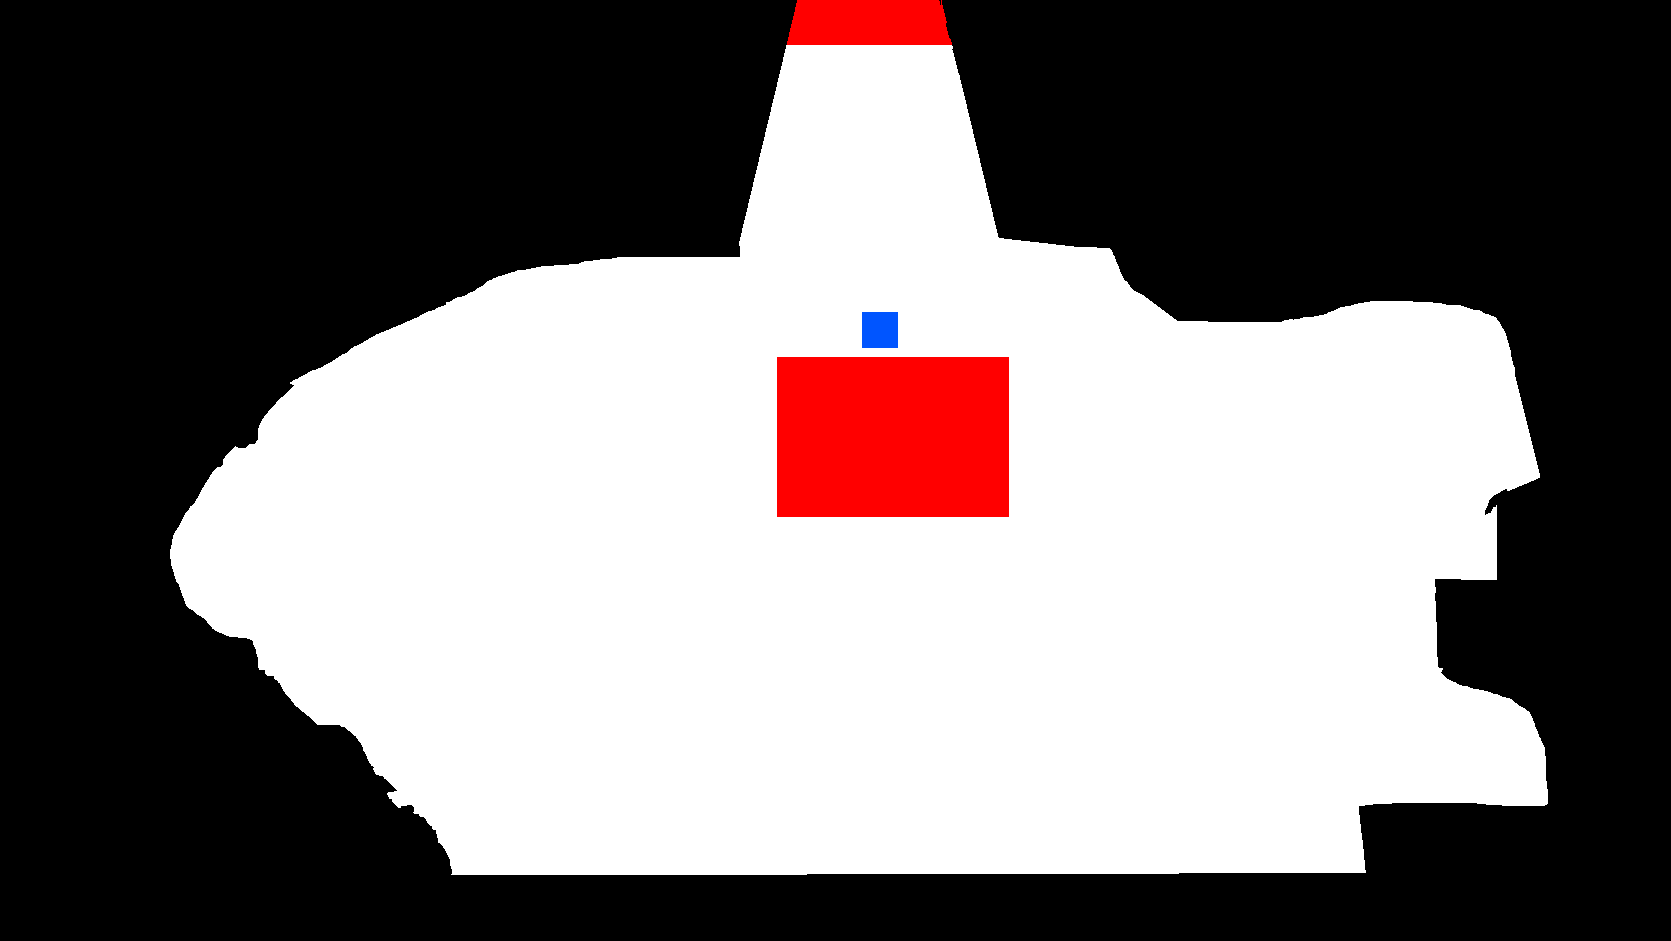
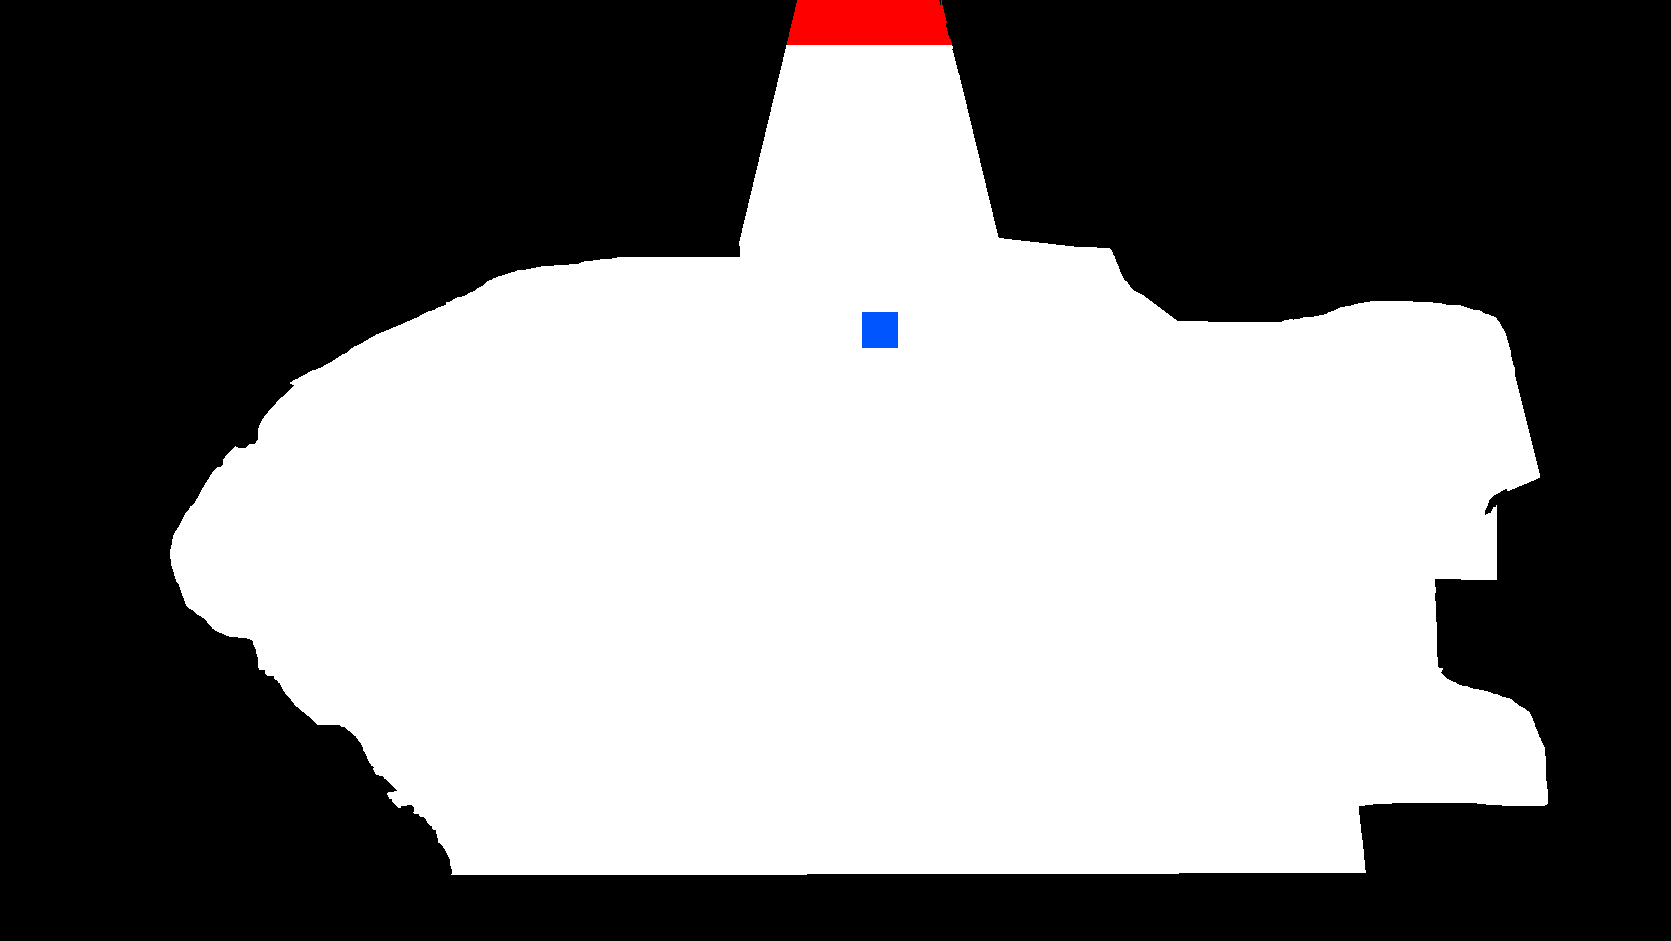
Final: al cerrar la última misión te dan la llave oxidada; abrís la puerta del costado del Nogal, te acercás al rift y empieza el final. El rift lo repite cuando quieras
Claude-Session: https://claude.ai/code/session_01VGCmBo3CsU2Xq1dNwQVK9W

Changed region(s): [[0.4668, 0.3698, 0.6224, 0.5547]]

diff --git a/www/cenizas.js b/www/cenizas.js
@@ -13,7 +13,7 @@
   const NPC = window.CZ_NPC || null;
   const ICON_PNG = { katana: 'katana', bate: 'bate', cuchillo: 'cuchillo', barra: 'barra', pistola: 'pistola', escopeta: 'escopeta', mascara: 'mascara', kitsune: 'capa', chaleco: 'chaleco', chaleco_t: 'chaleco', armadura: 'chaleco', campera: 'chaleco', palo: 'palo',
     b_contencion: 'brazalete', b_resonancia: 'brazalete', brz_ork: 'brazalete', brz_reb: 'brazalete', vendas: 'vendas', botiquin: 'vendas', suero: 'maletin', kit: 'maletin', cigarrillo: 'cigarrillo', manzana: 'manzana', credencial: 'credencial', pista_ork: 'credencial', pista_reb: 'pagina', pista: 'pagina', pagina: 'pagina', lanza: 'lanza', baston: 'lanza' };
-  Object.assign(ICON_PNG, { ganzuas: 'ganzuas', barra: 'barra2', cuchillo: 'cuchillo2', mascara: 'mascara_gas', filtro: 'respirador' });
+  Object.assign(ICON_PNG, { llave_rift: 'llaves', ganzuas: 'ganzuas', barra: 'barra2', cuchillo: 'cuchillo2', mascara: 'mascara_gas', filtro: 'respirador' });
   Object.assign(ICON_PNG, { lanzallamas: 'escopeta', metralleta: 'pistola', trampa: 'dinamita', antiveneno: 'canister', venda_q: 'vendas', fragmento: 'energia', brz_jefe: 'brazalete', tarjeta: 'tarjeta2', expediente: 'expediente', fusible: 'fusible', radio: 'radio', cartucho: 'cartucho', canister: 'canister', contenedor: 'contenedor', energia: 'energia' });
   const ICONS = {}; Object.entries(ICON_PNG).forEach(([k, f]) => { const i = new Image(); i.src = '/a/it/' + f + '.png'; ICONS[k] = i; });
   const iconOf = k => { const i = ICONS[k]; return i && i.complete && i.naturalWidth ? i : window.CZ_PIX.icon(k); };
@@ -240,6 +240,7 @@
     b_resonancia: { n: 'Brazalete de resonancia', t: 'Brazalete · raro', d: 'A favor: ves a las Sombras aunque se escondan. En contra: los Oscuros te detectan desde más lejos.', eq: 'brazo' },
     credencial: { n: 'Credencial de contención', t: 'Llave · poco común', d: 'La mostrás en cualquier tienda y por 10 minutos todo te sale 30% menos. Se gasta al usarla.', use: 'descuento' },
     receptor: { n: 'Receptor de señales', t: 'Objeto · poco común', d: 'Capta transmisiones: te marca con una flecha dónde está el maletín de curación (3 minutos) y te avisa si hay horda, jefe o Yuki. No se gasta (1 vez por minuto).', use: 'radar' },
+    llave_rift: { n: 'Llave oxidada', t: 'Historia · abre la puerta del costado del Nogal', d: 'Tiene grabado NOGAL. Abre la puerta oxidada del costado del campamento.' },
     ganzuas: { n: 'Juego de ganzúas', t: 'Herramienta · poco común', d: 'Acercate a un CASILLERO de los mapas y forzalo: sacás vendas y algo más. También abre la cápsula del búnker. Se gasta.', use: 'forzar' },
     filtro: { n: 'Filtro portátil', t: 'Consumible · poco común', d: 'Hacés potable el agua: +40 de vida y corrés más rápido por 8 segundos.', use: 'vida' },
     suero: { n: 'Maletín de curación total', t: 'Único · rota cada 3 minutos', d: 'Te deja la vida completa. Hay uno solo en todo el mundo y cambia de mapa cada 3 minutos si nadie lo agarra.', use: 'heal', v: 9999 },
@@ -582,7 +583,7 @@
     if (STORY && window.CZ_STORY && CZ_STORY.redir) { const t = CZ_STORY.redir(e.to); if (t && MAPS[t]) { const at = arrivalOf(t, 'salida'); exitLock = true; return warpTo(t, at[0], at[1]); } }
     const dest = MAPS[e.to];
     /* puerta oxidada del Nogal: por ahora solo pasa Pablo (o el admin, para probar) */
-    if (e.lock === 'pablo' && !((look && look.npc && /^pablo/.test(look.npc)) || (me && me.role === 'admin'))) { exitLock = true; buzz(40); toast('La cerradura está oxidada. Parece que hace mucho que no se abre.'); const cx = (e.r[0] + e.r[2]) / 2 * WS, cy = (e.r[1] + e.r[3]) / 2 * WS, dx = P.x - cx, dy = P.y - cy, l = Math.hypot(dx, dy) || 1; for (let i = 0; i < 12; i++) { const nx = P.x + dx / l * 12, ny = P.y + dy / l * 12; if (walkable(nx, ny)) { P.x = nx; P.y = ny; } } return; }
+    if (e.lock === 'pablo' && !((look && look.npc && /^pablo/.test(look.npc)) || (me && me.role === 'admin') || hasItem('llave_rift') || (INV.story && INV.story.fac === me.faction && (INV.story.done || []).some(x => x === 'r16' || x === 'v11')))) { exitLock = true; buzz(40); toast('La cerradura está oxidada. Parece que hace mucho que no se abre.'); const cx = (e.r[0] + e.r[2]) / 2 * WS, cy = (e.r[1] + e.r[3]) / 2 * WS, dx = P.x - cx, dy = P.y - cy, l = Math.hypot(dx, dy) || 1; for (let i = 0; i < 12; i++) { const nx = P.x + dx / l * 12, ny = P.y + dy / l * 12; if (walkable(nx, ny)) { P.x = nx; P.y = ny; } } return; }
     if (!dest) { exitLock = true; buzz(40); toast('Camino peligroso. No se puede avanzar.'); const cx = (e.r[0] + e.r[2]) / 2 * WS, cy = (e.r[1] + e.r[3]) / 2 * WS, dx = P.x - cx, dy = P.y - cy, l = Math.hypot(dx, dy) || 1; for (let i = 0; i < 12; i++) { const nx = P.x + dx / l * 12, ny = P.y + dy / l * 12; if (walkable(nx, ny)) { P.x = nx; P.y = ny; } } return; }
     if (STORY && window.CZ_STORY && !CZ_STORY.canWarp(e)) { exitLock = true; return; }
     if (EXP && dest.base && dest.base !== me.faction) { exitLock = true; buzz(40); return toast(dest.base === 'ork' ? 'BASE ORK · no podés pasar.' : 'BASE REBELDE · no podés pasar.'); }

diff --git a/www/cenizas-story.js b/www/cenizas-story.js
@@ -87,7 +87,8 @@ body.cine #st-dlg{display:block}
     $('#st-s').textContent = '▸ ' + step.txt + extra; }
   function setMission(i, fresh) { S.m = i; mis = list[i]; S.s = fresh ? 0 : S.s; S.c = fresh ? 0 : S.c; if (!mis) { step = null; objective(); return; } step = mis.steps[S.s]; save();
     if (fresh) card('MISIÓN ' + String(i + 1).padStart(2, '0'), mis.t, '', () => say(mis.intro, () => { prep(); objective(); })); else { prep(); objective(); } }
-  function advance() { S.s++; S.c = 0; S.loose = false; spawned = {}; if (S.s >= mis.steps.length) return finish(); step = mis.steps[S.s]; save(); prep(); objective(); A.toast('▸ ' + step.txt); }
+  const RIFT_C = () => [892, 436];
+  function advance() { if (step && step.give && !step.pz) { Object.entries(step.give).forEach(([k, n]) => { if (!A.hasItem(k)) A.addItem(k, n); }); A.toast('Recibiste: ' + Object.keys(step.give).map(k => A.ITEMS[k] ? A.ITEMS[k].n : k).join(', ')); A.quickBtns(); } S.s++; S.c = 0; S.loose = false; spawned = {}; if (S.s >= mis.steps.length) return finish(); step = mis.steps[S.s]; save(); prep(); objective(); A.toast('▸ ' + step.txt); }
   function finish() { const r = mis.reward || {}; if (r.xp) A.giveXp(r.xp); if (r.coins) A.giveCoins(r.coins); Object.entries(r.items || {}).forEach(([k, n]) => A.addItem(k, n)); A.quickBtns(); A.INV.racha = 0;
     const done = mis; S.done = (S.done || []).concat(done.id); step = null; mis = null; objective(); save();
     card('MISIÓN CUMPLIDA', done.t, '+' + (r.xp || 0) + ' XP · +' + (r.coins || 0) + ' $' + Object.entries(r.items || {}).map(([k, n]) => ' · ' + (A.ITEMS[k] ? A.ITEMS[k].n : k) + ' ×' + n).join(''), () => {
@@ -110,6 +111,7 @@ body.cine #st-dlg{display:block}
   function target() { if (!step) return null; let tm = step.go || step.map; if (!tm) return null; if (REDIR[tm] && A.mapKey === REDIR[tm]) { const e = (A.MAPS[A.mapKey].exits || [])[0]; return e ? { x: (e.r[0] + e.r[2]) / 2, y: (e.r[1] + e.r[3]) / 2, lab: 'SALÍ Y VOLVÉ A ENTRAR' } : null; } if (REDIR[tm] && A.mapKey !== tm) tm = REDIR[tm];
     if (A.mapKey !== tm) { const e = route(A.mapKey, tm); return e ? { x: (e.r[0] + e.r[2]) / 2, y: (e.r[1] + e.r[3]) / 2, lab: e.label || 'SALIDA' } : null; }
     if (step.talk || step.use) { const k = S.m + '-' + S.s + '-' + A.mapKey; const n = (step.talk && worldNpc()) || null; if (n) return { x: n.x, y: n.y, lab: nameOf(step.talk) }; const p = place[k]; return p ? { x: p[0], y: p[1], lab: step.use ? 'ACTIVAR' : 'HABLAR' } : null; }
+    if (step.rift) { const [rx, ry] = RIFT_C(); return { x: rx, y: ry, lab: 'RIFT' }; }
     if (step.pz) { const ob = pzObjs(A.mapKey), p = S.pz || {}; let o = null; if (step.pz === 'seq') o = ob.find(x => x.i === 3 && !x.done) || ob.find(x => x.i < 3 && !x.done); else if (step.pz === 'code') o = ob.find(x => x.i < 3 && !x.done) || ob.find(x => x.i === 3); else o = ob.find(x => !x.done); return o ? { x: o.x, y: o.y, lab: o.nm } : null; }
     const P = A.P, WS_ = A.WS, near = (arr) => { let b = null, bd = 1e18; arr.forEach(o => { const d = (o.x - P.x) ** 2 + (o.y - P.y) ** 2; if (d < bd) { bd = d; b = o; } }); return b; };
     if (step.kill) { const ks = kindsOf(step.kill); const m = near(A.mobs.filter(o => o.hp > 0 && (o.story || ks.includes(o.kind)))); if (m) return { x: m.x / WS_, y: m.y / WS_, lab: 'ENEMIGO' }; }
@@ -166,7 +168,11 @@ body.cine #st-dlg{display:block}
       if (S.m >= list.length) { mis = null; step = null; objective(); return; }
       const fresh = !A.INV.story || A.INV.story.fac !== A.me.faction; setTimeout(() => setMission(S.m, fresh && S.s === 0), 2600); },
     enter(k) { if (!A || !step) return; spawned = {}; if (step.go && step.go === k) { setTimeout(advance, 600); return; } setTimeout(() => { prep(); objective(); }, 300); },
-    tick(dt) { if (!step || !A) return; const P = A.P;
+    tick(dt) { if (!A) return; const P = A.P;
+      if (A.mapKey === 'sotano_rift') { const [rx, ry] = RIFT_C(), d = Math.hypot(P.x / A.WS - rx, (P.y / A.WS - ry) * 1.3);
+        if (step && step.rift) { if (d < 150) { advance(); } return; }
+        if (!step && S && S.m >= list.length && window.CZ_FINAL) { if (d < 140 && !H._rift) { H._rift = true; A.setPaused(true); CZ_FINAL.play(A.me.faction, () => { A.setPaused(false); A.toast('El rift sigue ahí. Cuando quieras, volvé a entrar.'); }); } else if (d > 320) H._rift = false; } }
+      if (!step) return;
       if (step.go && step.go === A.mapKey) { advance(); return; }
       if (step.get && (A.INV.items[step.get] || 0) >= step.n) { advance(); return; }
       if (step.survive && step.map === A.mapKey && !P.dead) { S.c += dt; if (((S.c * 10) | 0) % 10 === 0) objective(); H._w = (H._w || 0) - dt; const alive = A.mobs.filter(o => o.story).length;

diff --git a/www/cenizas-maps.js b/www/cenizas-maps.js
@@ -50,5 +50,5 @@ window.CZ_MAPS = {
   bar_rojo: {"name": "BAR DE LUZ ROJA", "img": "/a/m/bar_rojo.jpg", "mask": "/a/m/bar_rojo-mask.png", "w": 1672, "h": 941, "dark": 0.48, "lv": [18, 26], "spawn": [850, 560], "exits": [{"side": "d", "id": "salida", "r": [804, 822, 927, 940], "to": "plazaMayo", "toExit": "bar", "label": "PLAZA DE MAYO"}, {"id": "p1", "r": [1449, 837, 1566, 940], "to": null, "toExit": null, "label": "CAMINO PELIGROSO"}], "occ": [[882, 358, 107, 46, 403, 0], [998, 338, 135, 69, 406, 48], [729, 233, 54, 176, 408, 119], [1150, 379, 16, 37, 415, 297], [1157, 503, 15, 41, 543, 336], [1280, 471, 178, 90, 560, 379], [910, 694, 267, 143, 836, 471], [1529, 743, 57, 99, 841, 616], [1400, 727, 64, 118, 844, 717]], "occTop": true},
   barrio_chino: {"name": "BARRIO CHINO · BELGRANO", "img": "/a/m/barrio_chino.jpg", "mask": "/a/m/barrio_chino-mask.png", "w": 1672, "h": 941, "dark": 0.4, "lv": [8, 14], "spawn": [930, 620], "exits": [{"id": "lib", "r": [522, 896, 1293, 940], "to": "libertador", "toExit": "chino", "label": "CRUCE LIBERTADOR · BASE ORK"}, {"id": "p1", "r": [780, 0, 1120, 44], "to": null, "toExit": null, "label": "CAMINO PELIGROSO"}, {"id": "p2", "r": [0, 405, 44, 726], "to": null, "toExit": null, "label": "CAMINO PELIGROSO"}, {"id": "p3", "r": [1627, 537, 1671, 867], "to": null, "toExit": null, "label": "CAMINO PELIGROSO"}], "npcs": [{"k": "rocio", "nm": "ROCÍO", "line": "Vinimos a buscar víveres para mamá.", "x": 700, "y": 620, "act": null, "fac": null}, {"k": "natsume", "nm": "NATSUME", "line": "Mamá nos espera en Plaza de Mayo.", "x": 820, "y": 640, "act": null, "fac": null}], "occ": [[745, 0, 392, 339, 338, 0], [700, 500, 19, 66, 565, 341], [89, 505, 22, 64, 568, 409], [213, 515, 21, 63, 577, 475], [425, 527, 22, 67, 593, 540], [638, 542, 23, 66, 607, 609], [1204, 543, 23, 68, 610, 677], [699, 757, 26, 73, 829, 747], [1188, 769, 24, 78, 846, 822], [1305, 649, 367, 204, 852, 902], [0, 601, 662, 340, 940, 1108]], "occTop": true},
   calle_extra: {"name": "CALLE DEL MONUMENTO", "img": "/a/m/calle_extra.jpg", "mask": "/a/m/calle_extra-mask.png", "w": 1672, "h": 941, "dark": 0.38, "lv": [6, 12], "spawn": [760, 560], "exits": [{"id": "mcd", "r": [1627, 81, 1671, 343], "to": "mcd", "toExit": "p1", "label": "ESQUINA DEL McDONALD'S"}, {"id": "p1", "r": [226, 0, 326, 201], "to": null, "toExit": null, "label": "CAMINO PELIGROSO"}, {"id": "p2", "r": [1627, 360, 1671, 583], "to": null, "toExit": null, "label": "CAMINO PELIGROSO"}, {"id": "p3", "r": [1627, 767, 1671, 912], "to": null, "toExit": null, "label": "CAMINO PELIGROSO"}, {"id": "p4", "r": [484, 896, 1004, 940], "to": null, "toExit": null, "label": "CAMINO PELIGROSO"}], "npcs": [], "occ": [[0, 0, 583, 250, 249, 0], [959, 244, 406, 205, 448, 252], [581, 0, 164, 468, 467, 459], [938, 475, 22, 63, 537, 929], [1138, 72, 534, 525, 596, 994], [901, 568, 17, 45, 612, 1521], [418, 489, 39, 258, 746, 1568], [470, 723, 85, 40, 762, 1828], [883, 718, 20, 64, 781, 1870], [817, 858, 10, 12, 869, 1936], [95, 743, 395, 166, 908, 1950], [764, 718, 908, 223, 940, 2118]], "occTop": true},
-  sotano_rift: {"name": "SÓTANO DEL NOGAL · EL RIFT", "img": "/a/m/sotano_rift.jpg", "mask": "/a/m/sotano_rift-mask.png", "w": 1671, "h": 941, "dark": 0.5, "lv": [1, 1], "spawn": [880, 330], "exits": [{"id": "nogal", "r": [787, 0, 951, 44], "to": "nogal", "toExit": "sotano", "label": "EL NOGAL"}, {"id": "p1", "r": [777, 357, 1008, 516], "to": null, "toExit": null, "label": "CAMINO PELIGROSO"}], "npcs": [], "safeAll": true},
+  sotano_rift: {"name": "SÓTANO DEL NOGAL · EL RIFT", "img": "/a/m/sotano_rift.jpg", "mask": "/a/m/sotano_rift-mask.png", "w": 1671, "h": 941, "dark": 0.5, "lv": [1, 1], "spawn": [880, 330], "exits": [{"id": "nogal", "r": [787, 0, 951, 44], "to": "nogal", "toExit": "sotano", "label": "EL NOGAL"}], "npcs": [], "safeAll": true},
 };

diff --git a/www/cenizas-story-data.js b/www/cenizas-story-data.js
@@ -130,7 +130,9 @@ window.CZ_STORY_DATA = {
     { id: 'r16', t: 'LO QUE VUELVE CON NOSOTROS', intro: [['RADIO', '…Pablo y Pol cruzaron. Acá seguimos nosotros…']],
       steps: [
         { talk: 'jota', map: 'bunker', txt: 'Volvé con Jota', lines: [['jota', 'Ellos volvieron a su tiempo. Nosotros nos quedamos con lo que queda.']] },
-        { use: 'mesa', ob: 'mesa', nm: 'MESA DE OPERACIONES', map: 'bunker', at: [200, 80], txt: 'Entregá las pruebas', lines: [['VOS', 'Expedientes, cartuchos, nombres. Todo lo que juntamos.'], ['jota', 'VIREX sigue. Pero ahora sabemos dónde mirar.']] }],
+        { use: 'mesa', ob: 'mesa', nm: 'MESA DE OPERACIONES', map: 'bunker', at: [200, 80], txt: 'Entregá las pruebas', lines: [['VOS', 'Expedientes, cartuchos, nombres. Todo lo que juntamos.'], ['jota', 'VIREX sigue. Pero ahora sabemos dónde mirar.']] },
+    { talk: 'jota', map: 'bunker', at: [-120, 40], txt: 'Hablá con Jota antes de irte', give: { llave_rift: 1 }, lines: [['jota', 'Esto estaba entre las cosas de Pablo. Una llave oxidada... tiene grabado NOGAL.'], ['VOS', 'La puerta del costado. La que nunca se abre.'], ['jota', 'Andá. Lo que haya ahí abajo es tuyo.']] },
+    { rift: true, map: 'sotano_rift', txt: 'Volvé al Nogal: abrí la puerta oxidada del costado con la llave y acercate al rift' }],
       reward: { xp: 51600, coins: 250, items: { kit: 3 } }, fin: 'FIN DE LA CAMPAÑA REBELDE · La ruta queda abierta para quienes todavía necesitan escapar.' }
   ],
   ork: [
@@ -212,7 +214,9 @@ window.CZ_STORY_DATA = {
         { use: 'c1', ob: 'consola', nm: 'CIERRE', map: 'arena_final', at: [-450, -200], txt: 'Activá el primer cierre' },
         { use: 'c2', ob: 'consola', nm: 'CIERRE', map: 'arena_final', at: [450, -200], txt: 'Activá el segundo cierre' },
         { survive: 50, map: 'arena_final', kinds: 'HUM', txt: 'Mantené el campo de contención' },
-        { kill: 'pablo', n: 1, map: 'arena_final', spawn: true, txt: 'Inmovilizá a Pablo' }],
+        { kill: 'pablo', n: 1, map: 'arena_final', spawn: true, txt: 'Inmovilizá a Pablo' },
+    { talk: 'pablo', map: 'arena_final', at: [0, -120], txt: 'Escuchá a Pablo', give: { llave_rift: 1 }, lines: [['pablo', 'No me importa lo que hagan conmigo... tomá. La llave del Nogal.'], ['pablo', 'La puerta del costado. Ahí empezó todo. Ahí se termina.'], ['VOS', '¿Qué hay abajo?'], ['pablo', 'Andá y vas a ver.']] },
+    { rift: true, map: 'sotano_rift', txt: 'Volvé al Nogal: abrí la puerta oxidada del costado con la llave y acercate al rift' }],
       reward: { xp: 76050, coins: 250, items: { kit: 3 } }, fin: 'FIN DE LA CAMPAÑA ORK · Pablo queda bajo custodia. Detenerlo no demuestra que VIREX tenga razón.' }
   ]
 };
